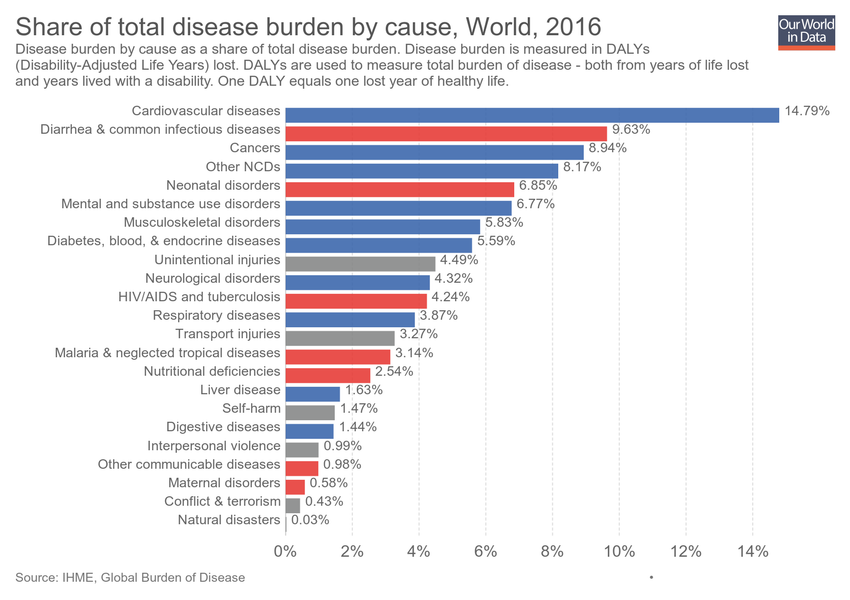
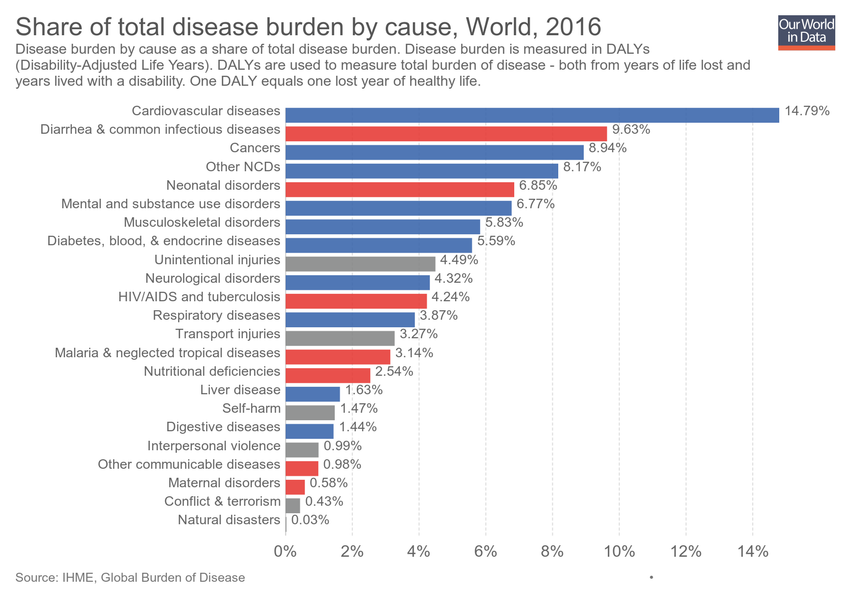
Updating chart share-of-total-disease-burden-by-cause

Changed region(s): [[0.0, 0.09, 0.8871, 0.15]]

diff --git a/grapher/share-of-total-disease-burden-by-cause.html b/grapher/share-of-total-disease-burden-by-cause.html
@@ -1,4 +1,4 @@
-<!doctype html><html><head><meta name="viewport" content="width=device-width, initial-scale=1" /><title>Share of total disease burden by cause - Our World in Data</title><meta name="description" content="Disease burden by cause as a share of total disease burden. Disease burden is measured in DALYs (Disability-Adjusted Life Years) lost. DALYs are used to measure total burden of disease - both from years of life lost and years lived with a disability. One DALY equals one lost year of healthy life." /><link rel="canonical" href="https://ourworldindata.org/grapher/share-of-total-disease-burden-by-cause" /><meta property="fb:app_id" content="1149943818390250" /><meta property="og:url" content="https://ourworldindata.org/grapher/share-of-total-disease-burden-by-cause" /><meta property="og:title" content="Share of total disease burden by cause" /><meta property="og:description" content="Disease burden by cause as a share of total disease burden. Disease burden is measured in DALYs (Disability-Adjusted Life Years) lost. DALYs are used to measure total burden of disease - both from years of life lost and years lived with a disability. One DALY equals one lost year of healthy life." /><meta property="og:image" content="https://ourworldindata.org/grapher/exports/share-of-total-disease-burden-by-cause.png?v=3" /><meta property="og:image:width" content="850" /><meta property="og:image:height" content="600" /><meta property="og:site_name" content="Our World in Data" /><meta name="twitter:card" content="summary_large_image" /><meta name="twitter:site" content="@OurWorldInData" /><meta name="twitter:creator" content="@OurWorldInData" /><meta name="twitter:title" content="Share of total disease burden by cause" /><meta name="twitter:description" content="Disease burden by cause as a share of total disease burden. Disease burden is measured in DALYs (Disability-Adjusted Life Years) lost. DALYs are used to measure total burden of disease - both from years of life lost and years lived with a disability. One DALY equals one lost year of healthy life." /><meta name="twitter:image" content="https://ourworldindata.org/grapher/exports/share-of-total-disease-burden-by-cause.png?v=3" /><style>
+<!doctype html><html><head><meta name="viewport" content="width=device-width, initial-scale=1" /><title>Share of total disease burden by cause - Our World in Data</title><meta name="description" content="Disease burden by cause as a share of total disease burden. Disease burden is measured in DALYs (Disability-Adjusted Life Years). DALYs are used to measure total burden of disease - both from years of life lost and years lived with a disability. One DALY equals one lost year of healthy life." /><link rel="canonical" href="https://ourworldindata.org/grapher/share-of-total-disease-burden-by-cause" /><meta property="fb:app_id" content="1149943818390250" /><meta property="og:url" content="https://ourworldindata.org/grapher/share-of-total-disease-burden-by-cause" /><meta property="og:title" content="Share of total disease burden by cause" /><meta property="og:description" content="Disease burden by cause as a share of total disease burden. Disease burden is measured in DALYs (Disability-Adjusted Life Years). DALYs are used to measure total burden of disease - both from years of life lost and years lived with a disability. One DALY equals one lost year of healthy life." /><meta property="og:image" content="https://ourworldindata.org/grapher/exports/share-of-total-disease-burden-by-cause.png?v=4" /><meta property="og:image:width" content="850" /><meta property="og:image:height" content="600" /><meta property="og:site_name" content="Our World in Data" /><meta name="twitter:card" content="summary_large_image" /><meta name="twitter:site" content="@OurWorldInData" /><meta name="twitter:creator" content="@OurWorldInData" /><meta name="twitter:title" content="Share of total disease burden by cause" /><meta name="twitter:description" content="Disease burden by cause as a share of total disease burden. Disease burden is measured in DALYs (Disability-Adjusted Life Years). DALYs are used to measure total burden of disease - both from years of life lost and years lived with a disability. One DALY equals one lost year of healthy life." /><meta name="twitter:image" content="https://ourworldindata.org/grapher/exports/share-of-total-disease-burden-by-cause.png?v=4" /><style>
         html, body {
             height: 100%;
             margin: 0;
@@ -20,8 +20,8 @@
         }
     </style><noscript><style>
                     figure { display: none !important; }
-                </style></noscript><link rel="stylesheet" href="https://ourworldindata.org/grapher/assets/commons.bundle.a7ce280024c736539280.css" /><link rel="preload" href="/grapher/data/variables/70510+70461+69797+70126+68870+69218+69609+69236+69430+69405+70305+68714+70072+70193+70027+69047+69845+69663+69950+69356+69466+69083+69502.json?v=3" as="fetch" crossorigin /></head><body class="singleChart"><figure data-grapher-src="/grapher/share-of-total-disease-burden-by-cause"></figure><noscript id="fallback"><img src="/grapher/exports/share-of-total-disease-burden-by-cause.svg" /><p>Interactive visualization requires JavaScript</p></noscript><script src="https://cdn.polyfill.io/v2/polyfill.min.js?features=es6,fetch"></script><script src="https://ourworldindata.org/grapher/assets/commons.bundle.a7ce280024c736539280.js"></script><script src="https://ourworldindata.org/grapher/assets/charts.bundle.dcf65b68eddaba4c6a58.js"></script><script>
-        var jsonConfig = {"id":2205,"map":{"projection":"World","colorSchemeLabels":[],"colorSchemeValues":[],"defaultProjection":"World","colorSchemeMinValue":0,"customNumericColors":[],"customCategoryColors":{},"customCategoryLabels":{},"customHiddenCategories":{}},"tab":"chart","slug":"share-of-total-disease-burden-by-cause","type":"DiscreteBar","title":"Share of total disease burden by cause","xAxis":{"scaleType":"linear"},"yAxis":{"min":0,"scaleType":"linear"},"version":3,"subtitle":"Disease burden by cause as a share of total disease burden. Disease burden is measured in DALYs (Disability-Adjusted Life Years) lost. DALYs are used to measure total burden of disease - both from years of life lost and years lived with a disability. One DALY equals one lost year of healthy life.","hasMapTab":false,"stackMode":"absolute","dimensions":[{"display":{"name":"Cardiovascular diseases","unit":"%"},"property":"y","variableId":70510},{"display":{"name":"Cancers","unit":"%"},"property":"y","variableId":70461},{"display":{"name":"Diabetes, blood, & endocrine diseases","unit":"%"},"property":"y","variableId":69797},{"display":{"name":"Mental and substance use disorders","unit":"%"},"property":"y","variableId":70126},{"display":{"name":"Respiratory diseases","unit":"%"},"property":"y","variableId":68870},{"display":{"name":"Other NCDs","unit":"%"},"property":"y","variableId":69218},{"display":{"name":"Liver disease","unit":"%"},"property":"y","variableId":69609},{"display":{"name":"Diarrhea & common infectious diseases","unit":"%"},"property":"y","variableId":69236},{"display":{"name":"Neonatal disorders","unit":"%"},"property":"y","variableId":69430},{"display":{"name":"Maternal disorders","unit":"%"},"property":"y","variableId":69405},{"display":{"name":"Musculoskeletal disorders","unit":"%"},"property":"y","variableId":70305},{"display":{"name":"Unintentional injuries","unit":"%"},"property":"y","variableId":68714},{"display":{"name":"Neurological disorders","unit":"%"},"property":"y","variableId":70072},{"display":{"name":"HIV/AIDS and tuberculosis","unit":"%"},"property":"y","variableId":70193},{"display":{"name":"Transport injuries","unit":"%"},"property":"y","variableId":70027},{"display":{"name":"Self-harm","unit":"%"},"property":"y","variableId":69047},{"display":{"name":"Interpersonal violence","unit":"%"},"property":"y","variableId":69845},{"display":{"name":"Conflict & terrorism","unit":"%"},"property":"y","variableId":69663},{"display":{"name":"Natural disasters","unit":"%"},"property":"y","variableId":69950},{"display":{"name":"Malaria & neglected tropical diseases","unit":"%"},"property":"y","variableId":69356},{"display":{"name":"Nutritional deficiencies","unit":"%"},"property":"y","variableId":69466},{"display":{"name":"Digestive diseases","unit":"%"},"property":"y","variableId":69083},{"display":{"name":"Other communicable diseases","unit":"%"},"property":"y","variableId":69502}],"sourceDesc":"IHME, Global Burden of Disease","hasChartTab":true,"isPublished":true,"selectedData":[{"color":"#3360a9","index":0,"entityId":355},{"color":"#3360a9","index":1,"entityId":355},{"color":"#3360a9","index":10,"entityId":355},{"color":"#818282","index":11,"entityId":355},{"color":"#3360a9","index":12,"entityId":355},{"color":"#e6332e","index":13,"entityId":355},{"color":"#818282","index":14,"entityId":355},{"color":"#818282","index":15,"entityId":355},{"color":"#818282","index":16,"entityId":355},{"color":"#818282","index":17,"entityId":355},{"color":"#818282","index":18,"entityId":355},{"color":"#e6332e","index":19,"entityId":355},{"color":"#3360a9","index":2,"entityId":355},{"color":"#e6332e","index":20,"entityId":355},{"color":"#3360a9","index":21,"entityId":355},{"color":"#e6332e","index":22,"entityId":355},{"color":"#3360a9","index":3,"entityId":355},{"color":"#3360a9","index":4,"entityId":355},{"color":"#3360a9","index":5,"entityId":355},{"color":"#3360a9","index":6,"entityId":355},{"color":"#e6332e","index":7,"entityId":355},{"color":"#e6332e","index":8,"entityId":355},{"color":"#e6332e","index":9,"entityId":355}],"addCountryMode":"change-country"};
+                </style></noscript><link rel="stylesheet" href="https://ourworldindata.org/grapher/assets/commons.bundle.a7ce280024c736539280.css" /><link rel="preload" href="/grapher/data/variables/70510+70461+69797+70126+68870+69218+69609+69236+69430+69405+70305+68714+70072+70193+70027+69047+69845+69663+69950+69356+69466+69083+69502.json?v=4" as="fetch" crossorigin /></head><body class="singleChart"><figure data-grapher-src="/grapher/share-of-total-disease-burden-by-cause"></figure><noscript id="fallback"><img src="/grapher/exports/share-of-total-disease-burden-by-cause.svg" /><p>Interactive visualization requires JavaScript</p></noscript><script src="https://cdn.polyfill.io/v2/polyfill.min.js?features=es6,fetch"></script><script src="https://ourworldindata.org/grapher/assets/commons.bundle.a7ce280024c736539280.js"></script><script src="https://ourworldindata.org/grapher/assets/charts.bundle.dcf65b68eddaba4c6a58.js"></script><script>
+        var jsonConfig = {"id":2205,"map":{"projection":"World","colorSchemeLabels":[],"colorSchemeValues":[],"colorSchemeMinValue":0,"customNumericColors":[],"customCategoryColors":{},"customCategoryLabels":{},"customHiddenCategories":{}},"tab":"chart","slug":"share-of-total-disease-burden-by-cause","type":"DiscreteBar","title":"Share of total disease burden by cause","xAxis":{"scaleType":"linear"},"yAxis":{"min":0,"scaleType":"linear"},"version":4,"subtitle":"Disease burden by cause as a share of total disease burden. Disease burden is measured in DALYs (Disability-Adjusted Life Years). DALYs are used to measure total burden of disease - both from years of life lost and years lived with a disability. One DALY equals one lost year of healthy life.","hasMapTab":false,"stackMode":"absolute","dimensions":[{"display":{"name":"Cardiovascular diseases","unit":"%"},"property":"y","variableId":70510},{"display":{"name":"Cancers","unit":"%"},"property":"y","variableId":70461},{"display":{"name":"Diabetes, blood, & endocrine diseases","unit":"%"},"property":"y","variableId":69797},{"display":{"name":"Mental and substance use disorders","unit":"%"},"property":"y","variableId":70126},{"display":{"name":"Respiratory diseases","unit":"%"},"property":"y","variableId":68870},{"display":{"name":"Other NCDs","unit":"%"},"property":"y","variableId":69218},{"display":{"name":"Liver disease","unit":"%"},"property":"y","variableId":69609},{"display":{"name":"Diarrhea & common infectious diseases","unit":"%"},"property":"y","variableId":69236},{"display":{"name":"Neonatal disorders","unit":"%"},"property":"y","variableId":69430},{"display":{"name":"Maternal disorders","unit":"%"},"property":"y","variableId":69405},{"display":{"name":"Musculoskeletal disorders","unit":"%"},"property":"y","variableId":70305},{"display":{"name":"Unintentional injuries","unit":"%"},"property":"y","variableId":68714},{"display":{"name":"Neurological disorders","unit":"%"},"property":"y","variableId":70072},{"display":{"name":"HIV/AIDS and tuberculosis","unit":"%"},"property":"y","variableId":70193},{"display":{"name":"Transport injuries","unit":"%"},"property":"y","variableId":70027},{"display":{"name":"Self-harm","unit":"%"},"property":"y","variableId":69047},{"display":{"name":"Interpersonal violence","unit":"%"},"property":"y","variableId":69845},{"display":{"name":"Conflict & terrorism","unit":"%"},"property":"y","variableId":69663},{"display":{"name":"Natural disasters","unit":"%"},"property":"y","variableId":69950},{"display":{"name":"Malaria & neglected tropical diseases","unit":"%"},"property":"y","variableId":69356},{"display":{"name":"Nutritional deficiencies","unit":"%"},"property":"y","variableId":69466},{"display":{"name":"Digestive diseases","unit":"%"},"property":"y","variableId":69083},{"display":{"name":"Other communicable diseases","unit":"%"},"property":"y","variableId":69502}],"sourceDesc":"IHME, Global Burden of Disease","hasChartTab":true,"isPublished":true,"selectedData":[{"color":"#3360a9","index":0,"entityId":355},{"color":"#3360a9","index":1,"entityId":355},{"color":"#3360a9","index":10,"entityId":355},{"color":"#818282","index":11,"entityId":355},{"color":"#3360a9","index":12,"entityId":355},{"color":"#e6332e","index":13,"entityId":355},{"color":"#818282","index":14,"entityId":355},{"color":"#818282","index":15,"entityId":355},{"color":"#818282","index":16,"entityId":355},{"color":"#818282","index":17,"entityId":355},{"color":"#818282","index":18,"entityId":355},{"color":"#e6332e","index":19,"entityId":355},{"color":"#3360a9","index":2,"entityId":355},{"color":"#e6332e","index":20,"entityId":355},{"color":"#3360a9","index":21,"entityId":355},{"color":"#e6332e","index":22,"entityId":355},{"color":"#3360a9","index":3,"entityId":355},{"color":"#3360a9","index":4,"entityId":355},{"color":"#3360a9","index":5,"entityId":355},{"color":"#3360a9","index":6,"entityId":355},{"color":"#e6332e","index":7,"entityId":355},{"color":"#e6332e","index":8,"entityId":355},{"color":"#e6332e","index":9,"entityId":355}],"addCountryMode":"change-country"};
         var figure = document.getElementsByTagName("figure")[0];
         try {
             window.App = {};

diff --git a/grapher/share-of-disease-burden-from-ncds-vs-gdp.html b/grapher/share-of-disease-burden-from-ncds-vs-gdp.html
@@ -1,4 +1,4 @@
-<!doctype html><html><head><meta name="viewport" content="width=device-width, initial-scale=1" /><title>Share of disease burden from NCDs vs. GDP per capita - Our World in Data</title><meta name="description" content="Share of total disease burden from non-communicable diseases (NCDs) versus gross domestic product (GDP) per capita, measured in 2011 international-$. Disease burden is measured based on Disability-Adjusted Life Years (DALYs) lost." /><link rel="canonical" href="https://ourworldindata.org/grapher/share-of-disease-burden-from-ncds-vs-gdp" /><meta property="fb:app_id" content="1149943818390250" /><meta property="og:url" content="https://ourworldindata.org/grapher/share-of-disease-burden-from-ncds-vs-gdp" /><meta property="og:title" content="Share of disease burden from NCDs vs. GDP per capita" /><meta property="og:description" content="Share of total disease burden from non-communicable diseases (NCDs) versus gross domestic product (GDP) per capita, measured in 2011 international-$. Disease burden is measured based on Disability-Adjusted Life Years (DALYs) lost." /><meta property="og:image" content="https://ourworldindata.org/grapher/exports/share-of-disease-burden-from-ncds-vs-gdp.png?v=1" /><meta property="og:image:width" content="850" /><meta property="og:image:height" content="600" /><meta property="og:site_name" content="Our World in Data" /><meta name="twitter:card" content="summary_large_image" /><meta name="twitter:site" content="@OurWorldInData" /><meta name="twitter:creator" content="@OurWorldInData" /><meta name="twitter:title" content="Share of disease burden from NCDs vs. GDP per capita" /><meta name="twitter:description" content="Share of total disease burden from non-communicable diseases (NCDs) versus gross domestic product (GDP) per capita, measured in 2011 international-$. Disease burden is measured based on Disability-Adjusted Life Years (DALYs) lost." /><meta name="twitter:image" content="https://ourworldindata.org/grapher/exports/share-of-disease-burden-from-ncds-vs-gdp.png?v=1" /><style>
+<!doctype html><html><head><meta name="viewport" content="width=device-width, initial-scale=1" /><title>Share of disease burden from NCDs vs. GDP per capita - Our World in Data</title><meta name="description" content="Share of total disease burden from non-communicable diseases (NCDs) versus gross domestic product (GDP) per capita, measured in 2011 international-$. Disease burden is measured based on Disability-Adjusted Life Years (DALYs)." /><link rel="canonical" href="https://ourworldindata.org/grapher/share-of-disease-burden-from-ncds-vs-gdp" /><meta property="fb:app_id" content="1149943818390250" /><meta property="og:url" content="https://ourworldindata.org/grapher/share-of-disease-burden-from-ncds-vs-gdp" /><meta property="og:title" content="Share of disease burden from NCDs vs. GDP per capita" /><meta property="og:description" content="Share of total disease burden from non-communicable diseases (NCDs) versus gross domestic product (GDP) per capita, measured in 2011 international-$. Disease burden is measured based on Disability-Adjusted Life Years (DALYs)." /><meta property="og:image" content="https://ourworldindata.org/grapher/exports/share-of-disease-burden-from-ncds-vs-gdp.png?v=2" /><meta property="og:image:width" content="850" /><meta property="og:image:height" content="600" /><meta property="og:site_name" content="Our World in Data" /><meta name="twitter:card" content="summary_large_image" /><meta name="twitter:site" content="@OurWorldInData" /><meta name="twitter:creator" content="@OurWorldInData" /><meta name="twitter:title" content="Share of disease burden from NCDs vs. GDP per capita" /><meta name="twitter:description" content="Share of total disease burden from non-communicable diseases (NCDs) versus gross domestic product (GDP) per capita, measured in 2011 international-$. Disease burden is measured based on Disability-Adjusted Life Years (DALYs)." /><meta name="twitter:image" content="https://ourworldindata.org/grapher/exports/share-of-disease-burden-from-ncds-vs-gdp.png?v=2" /><style>
         html, body {
             height: 100%;
             margin: 0;
@@ -20,8 +20,8 @@
         }
     </style><noscript><style>
                     figure { display: none !important; }
-                </style></noscript><link rel="stylesheet" href="https://ourworldindata.org/grapher/assets/commons.bundle.a7ce280024c736539280.css" /><link rel="preload" href="/grapher/data/variables/70418+2209+72+123.json?v=1" as="fetch" crossorigin /></head><body class="singleChart"><figure data-grapher-src="/grapher/share-of-disease-burden-from-ncds-vs-gdp"></figure><noscript id="fallback"><img src="/grapher/exports/share-of-disease-burden-from-ncds-vs-gdp.svg" /><p>Interactive visualization requires JavaScript</p></noscript><script src="https://cdn.polyfill.io/v2/polyfill.min.js?features=es6,fetch"></script><script src="https://ourworldindata.org/grapher/assets/commons.bundle.a7ce280024c736539280.js"></script><script src="https://ourworldindata.org/grapher/assets/charts.bundle.dcf65b68eddaba4c6a58.js"></script><script>
-        var jsonConfig = {"map":{"projection":"World","colorSchemeLabels":[],"colorSchemeValues":[],"defaultProjection":"World","colorSchemeMinValue":0,"customNumericColors":[],"customCategoryColors":{},"customCategoryLabels":{},"customHiddenCategories":{}},"tab":"chart","slug":"share-of-disease-burden-from-ncds-vs-gdp","type":"ScatterPlot","title":"Share of disease burden from NCDs vs. GDP per capita","xAxis":{"scaleType":"log","canChangeScaleType":true},"yAxis":{"min":0,"scaleType":"linear"},"maxTime":2016,"minTime":2016,"version":1,"subtitle":"Share of total disease burden from non-communicable diseases (NCDs) versus gross domestic product (GDP) per capita, measured in 2011 international-$. Disease burden is measured based on Disability-Adjusted Life Years (DALYs) lost.","hasMapTab":false,"stackMode":"absolute","dimensions":[{"display":{"name":"Share of disease burden from NCDs","unit":"%"},"property":"y","variableId":70418},{"display":{},"property":"x","variableId":2209},{"display":{},"property":"size","variableId":72},{"display":{},"property":"color","variableId":123}],"sourceDesc":"IHME, Global Burden of Disease, World Bank – WDI","hasChartTab":true,"isPublished":true,"selectedData":[],"id":2218};
+                </style></noscript><link rel="stylesheet" href="https://ourworldindata.org/grapher/assets/commons.bundle.a7ce280024c736539280.css" /><link rel="preload" href="/grapher/data/variables/70418+2209+72+123.json?v=2" as="fetch" crossorigin /></head><body class="singleChart"><figure data-grapher-src="/grapher/share-of-disease-burden-from-ncds-vs-gdp"></figure><noscript id="fallback"><img src="/grapher/exports/share-of-disease-burden-from-ncds-vs-gdp.svg" /><p>Interactive visualization requires JavaScript</p></noscript><script src="https://cdn.polyfill.io/v2/polyfill.min.js?features=es6,fetch"></script><script src="https://ourworldindata.org/grapher/assets/commons.bundle.a7ce280024c736539280.js"></script><script src="https://ourworldindata.org/grapher/assets/charts.bundle.dcf65b68eddaba4c6a58.js"></script><script>
+        var jsonConfig = {"id":2218,"map":{"projection":"World","colorSchemeLabels":[],"colorSchemeValues":[],"colorSchemeMinValue":0,"customNumericColors":[],"customCategoryColors":{},"customCategoryLabels":{},"customHiddenCategories":{}},"tab":"chart","slug":"share-of-disease-burden-from-ncds-vs-gdp","type":"ScatterPlot","title":"Share of disease burden from NCDs vs. GDP per capita","xAxis":{"scaleType":"log","canChangeScaleType":true},"yAxis":{"min":0,"scaleType":"linear"},"maxTime":2016,"minTime":2016,"version":2,"subtitle":"Share of total disease burden from non-communicable diseases (NCDs) versus gross domestic product (GDP) per capita, measured in 2011 international-$. Disease burden is measured based on Disability-Adjusted Life Years (DALYs).","hasMapTab":false,"stackMode":"absolute","dimensions":[{"display":{"name":"Share of disease burden from NCDs","unit":"%"},"property":"y","variableId":70418},{"display":{},"property":"x","variableId":2209},{"display":{},"property":"size","variableId":72},{"display":{},"property":"color","variableId":123}],"sourceDesc":"IHME, Global Burden of Disease, World Bank – WDI","hasChartTab":true,"isPublished":true,"selectedData":[]};
         var figure = document.getElementsByTagName("figure")[0];
         try {
             window.App = {};
